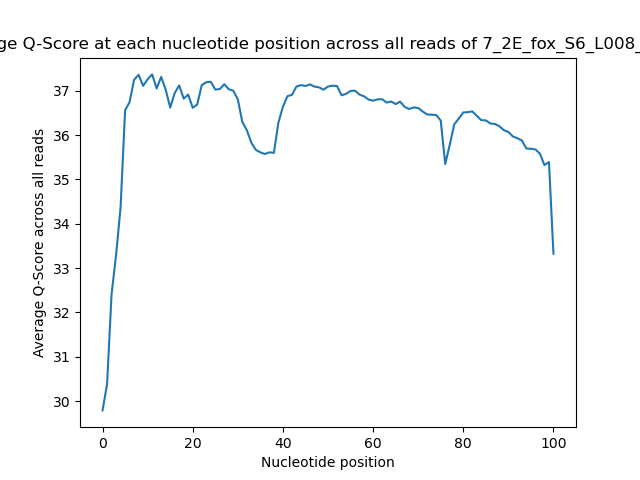
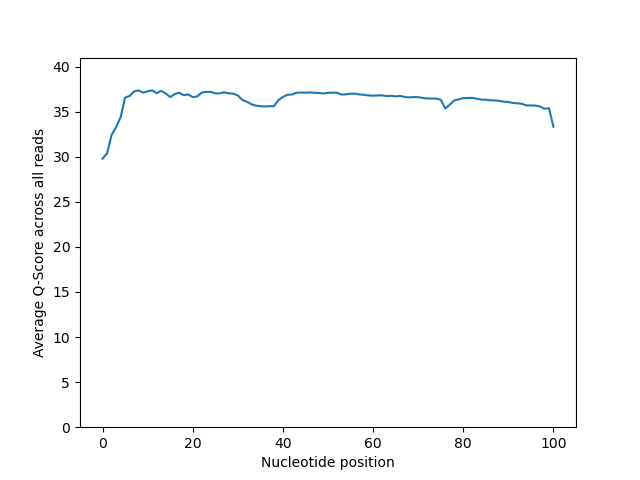
Added figures

diff --git a/trimmomatic_plots.py b/trimmomatic_plots.py
@@ -20,8 +20,8 @@ with gzip.open(file, mode="rt") as fh1:
             else:
                 lengths[len(line)] = 1
 
-x1 = list(lengths.keys())
-y1 = list(lengths.values())
+x1 = sorted(list(lengths.keys()))
+y1 = sorted(list(lengths.values()))
 
 file = files[1]
 
@@ -37,19 +37,20 @@ with gzip.open(file, mode="rt") as fh1:
             else:
                 lengths[len(line)] = 1
 
-x2 = list(lengths.keys())
-y2 = list(lengths.values())
+x2 = sorted(list(lengths.keys()))
+y2 = sorted(list(lengths.values()))
 
 title = f"{file.split("_")[0]}_S0_L008"
 
 fig, ax = plt.subplots()       
-ax.bar(x1,y1, alpha = .5, color = "cornflowerblue", label = "R1")
-ax.bar(x2,y2, alpha = .5, color = "fuchsia", label = "R2") 
+ax.plot(x1,y1, alpha = .5, color = "cornflowerblue", label = "R1")
+ax.plot(x2,y2, alpha = .5, color = "fuchsia", label = "R2") 
+ax.set_yscale('log')
 ax.legend()
 ax.set_xlabel("Read length")
 ax.set_ylabel("Count")
-plt.title(f"Read length distribution of {title} across R1 and R2")
-plt.savefig(f"{title}_length_distribution.png") 
+#plt.title(f"Read length distribution of {title} across R1 and R2")
+plt.savefig(f"{title}_length_distribution_line.png") 
 
 
 file = files[2]
@@ -66,8 +67,8 @@ with gzip.open(file, mode="rt") as fh1:
             else:
                 lengths[len(line)] = 1
 
-x1 = list(lengths.keys())
-y1 = list(lengths.values())
+x1 = sorted(list(lengths.keys()))
+y1 = sorted(list(lengths.values()))
 
 file = files[3]
 
@@ -83,17 +84,18 @@ with gzip.open(file, mode="rt") as fh1:
             else:
                 lengths[len(line)] = 1
 
-x2 = list(lengths.keys())
-y2 = list(lengths.values())
+x2 = sorted(list(lengths.keys()))
+y2 = sorted(list(lengths.values()))
 
 title = f"{file.split("_")[0]}_S6_L008"
 
 
 fig, ax = plt.subplots()       
-ax.bar(x1,y1, alpha = .5, color = "cornflowerblue", label = "R1")
-ax.bar(x2,y2, alpha = .5, color = "fuchsia", label = "R2") 
+ax.plot(x1,y1, alpha = .5, color = "cornflowerblue", label = "R1")
+ax.plot(x2,y2, alpha = .5, color = "fuchsia", label = "R2") 
+ax.set_yscale('log')
 ax.legend()
 ax.set_xlabel("Read length")
 ax.set_ylabel("Count")
-plt.title(f"Read length distribution of {title} across R1 and R2")
-plt.savefig(f"{title}_length_distribution.png") 
+#plt.title(f"Read length distribution of {title} across R1 and R2")
+plt.savefig(f"{title}_length_distribution_line.png") 

diff --git a/Pt1.py b/Pt1.py
@@ -38,9 +38,10 @@ title = just_fastq.split(".")[0] #Just removes the ".fastq.gz"
 
 fig, ax = plt.subplots()             
 ax.plot(x,y) 
+plt.ylim(bottom=0, top=41)
 ax.set_xlabel("Nucleotide position")
 ax.set_ylabel("Average Q-Score across all reads")
-plt.title(f"Average Q-Score at each nucleotide position across all reads of {title}")
+#plt.title(f"Average Q-Score at each nucleotide position across all reads of {title}")
 plt.savefig(f"{title}_distribution.png") #Should be 'R1_distribution.png' etc
         
 

diff --git a/QAA_Notebook.md b/QAA_Notebook.md
@@ -205,6 +205,7 @@ I took a look at my Htseq output files, which seem to be a familiar list of gene
 I applied the same combination of commands to every output file, to produce the following table:
 
 | Htseq Metric |  Fox Reverse     | Fox Forward | Undetermined Reverse | Undetermined Forward
+| -------- | ------- | ------- | ------- | -------
 | Mapped reads | 4,026,702 | 171,207 | 17,097 | 1,350
 | Total reads  |    4,882,703   | 4,882,703    | 2,511,252 | 2,511,252
 | % mapped | 82.46%  |   3.51%  | 0.68% | 0.054%
@@ -213,8 +214,34 @@ I also created a similar table for my python script data:
 
 
 | Script Metric |  Fox | Undetermined
+| -------- | ------- | ------- |
 | Mapped reads | 9,424,733 | 163,734 
 | Total reads  |    9,765,406   | 5,022,504
 | % mapped | 96.51%  |   3.26%  
 
-There are a number of interesting things to note in these tables. 
+There are a number of interesting things to note in these tables. First, I can confirm that the sum of the total reads for each forward and reverse file in Htseq matches the total reads of each file as analyzed by my script, a reassuring finding. Second, we can note the clear discrepency in matched reads between the "Fox" file and the "Undetermined" file, the reason for which should be obvious from the name of the latter. The "Undetermined" data are a collection of from reads whose biological source that could not be identified, so it makes perfect sense that they do not map well to a single genome. Finally, there is a clear difference is percent of mapped reads between the Htseq output and my python script's output. This is likey due to the fact that the Htseq algorithm also takes in a GTF file as input, whereas mine only uses the information in the SAM file. Looking at the tail of the Htseq output, we can see there are several criteria for which a read will be counted as unmapped:
+
+	__no_feature    4320237
+	__ambiguous     4091
+	__too_low_aQual 13136
+	__not_aligned   163337
+	__alignment_not_unique  210695
+
+In the documentation available online (https://htseq.readthedocs.io/en/release_0.11.1/count.html), the "not aligned" parameter is described as "reads in the SAM file without alignment" -- which is exactly what our python script is looking for. Therefore, it appears that all the other fields use information from the GTF file that our script is not privy to. I believe this is the primary source of the discrepency between my output and their's. To test this, I wanted to see if the sum of all their mapped reads plus everything except the "not aligned" field would equal my number of mapped reads: 4,026,702 + 171,207 + 390065 + 78768 + 13136 + 210695 + 4320237 + 4091 + 13136 + 210695 = 9,438,732
+
+My number of mapped reads: 9,424,733
+
+9,424,733 - 9,438,732 = -13,999
+
+So close and yet so far -- after correcting for information contained within the GTF file, my script actually reports about 14,000 fewer mapped reads than Htseq. The only explanation I can think of for this discrepency is that my script eliminates secondary alignments, which may be a subset of the "alignment not unique" field -- therefore, some proportion of those reads were not counted by both my script and the Htseq algorithm, and therefore should not have been added to the corrected total.
+
+To determine if the data are strand specific, I consulted the internet. According to Devon Ryna on biostars (https://www.biostars.org/p/205987/), who states that the option with more reads mapped will be the correct option. In our case, this is likely reverse: in the "Fox" file, 82.46% of reads mapped under the reverse setting, whereas only 3.51% mapped in the forward. For "Undetermined", this was a little more unclear -- only .68% mapped in reverse, and .054% forward. Although this is technically a large change proportionally, I don't think this should be interpreted as a significant difference. Instead, I believe this is again indicative of the fact that these data come from many different sources, and can't be reliably mapped to a genome. 
+
+
+
+
+
+
+Note to self for later: The "splice-aware" description of STAR refers to the fact that we are attempting to align RNAseq data to a reference genome. Because introns have been spliced out, we may capture a read of mRNA that spans across exons. The splice aware algorithm can account for this by aligning such a read over the gap created by an intron in the reference genome. 
+
+Things to review: Strandedness in general, what exactly is a "feature"
